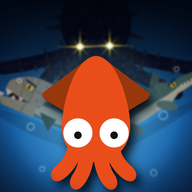
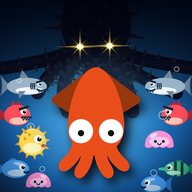
Icona: calamaro con ombra tra i nemici
Claude-Session: https://claude.ai/code/session_01Y3yqn3oYkLzQqwWk9HZaU5

diff --git a/sw.js b/sw.js
@@ -1,5 +1,5 @@
 // Fa funzionare SquidSwarm come app installata, anche senza connessione
-const CACHE='squidswarm-v2';
+const CACHE='squidswarm-v3';
 const FILES=['./','./index.html','./manifest.webmanifest','./icon-192.png','./icon-512.png'];
 self.addEventListener('install',e=>{e.waitUntil(caches.open(CACHE).then(c=>c.addAll(FILES)));self.skipWaiting();});
 self.addEventListener('activate',e=>{e.waitUntil(caches.keys().then(ks=>Promise.all(ks.filter(k=>k!==CACHE).map(k=>caches.delete(k)))));self.clients.claim();});
